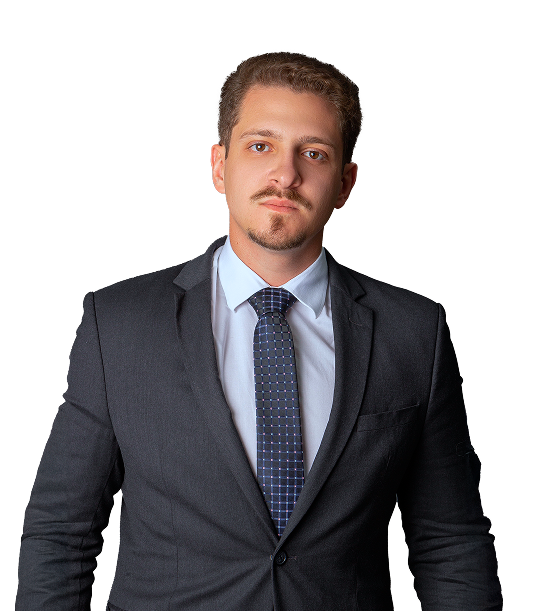
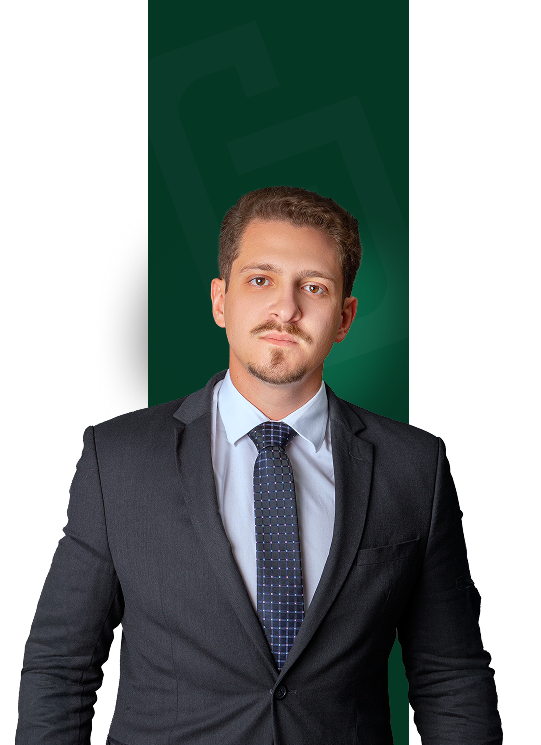
hero resolve responsive errors

diff --git a/src/components/sections/hero/hero.tsx b/src/components/sections/hero/hero.tsx
@@ -1,8 +1,8 @@
 import Link from "next/link";
-import { Container } from "../layout/container";
+import { Container } from "../../layout/container";
 import Image from "next/image";
 import { ArrowDown } from "lucide-react";
-import { TitleWithTag } from "../title-with-tag";
+import { TitleWithTag } from "../../title-with-tag";
 import * as motion from "motion/react-client";
 
 const container = {
@@ -36,7 +36,7 @@ const variants = {
 export function Hero() {
   return (
     <motion.div
-      className="relative pt-20 bg-brand-950 overflow-hidden"
+      className="relative pt-20 bg-brand-950 overflow-hidden h-[600px] md:h-[745px]"
       id="hero"
       variants={container}
       initial="hidden"
@@ -70,18 +70,22 @@ export function Hero() {
           <ArrowDown className="text-white" />
         </Link>
       </motion.div>
-      <Image
-        src="/hero/hero-mobile.png"
-        width={266}
-        height={315}
-        quality={100}
-        alt="Gabriel Cansação"
-        className="absolute bottom-0 w-full left-[30%] md:hidden"
-        priority
-      />
-
-      <Container className="flex relative flex-col md:grid grid-cols-8 lg:grid-cols-12 min-h-[580px] ">
-        <div className="flex flex-col gap-4 text-white md:flex-row col-span-4 pt-10 md:pt-20 lg:col-span-6 lg:pt-40">
+      <motion.figure
+        className="absolute bottom-0 left-[30%] md:hidden w-full"
+        variants={variants.opacity}
+      >
+        <Image
+          src="/hero/hero-mobile.png"
+          width={266}
+          height={315}
+          quality={100}
+          alt="Gabriel Cansação"
+          className="w-full"
+          priority
+        />
+      </motion.figure>
+      <Container className="relative h-full w-full">
+        <div className="flex flex-col gap-4 text-white md:flex-row pt-10 md:pt-20 lg:pt-40 absolute max-w-[430px] z-10">
           <div className="block md:hidden">
             <TitleWithTag
               orientation="vertical"
@@ -125,47 +129,35 @@ export function Hero() {
           </motion.div>
         </div>
         <motion.div
-          className="col-span-4 w-full hidden md:block relative lg:col-span-6 max-w-[400px]"
+          className="ml-auto w-full hidden md:block h-full"
           variants={variants.opacity}
         >
-          <figure className="absolute top-0 left-[20%] w-[400px] flex items-center justify-center">
-            <Image
-              src="/hero/hero-bg-center.png"
-              width={150}
-              height={400}
-              quality={100}
-              alt="Efeito visual de fundo"
-              role="presentation"
-              priority
-            />
-          </figure>
           <Image
             src="/hero/hero.png"
-            width={400}
-            height={400}
+            width={541}
+            height={759}
             quality={100}
             alt="Gabriel Cansação"
             priority
-            className="absolute bottom-0 left-[20%] z-[2]"
+            className="absolute bottom-0 right-0 z-[2]"
           />
-
           <Image
             src="/hero/hero-bg-left.png"
-            width={300}
-            height={400}
+            width={461}
+            height={588}
             quality={100}
             alt="Gabriel Cansação imagem opaca à esquerda"
             priority
-            className="absolute bottom-[0%] left-[-20%]"
+            className="absolute -bottom-8 right-80 opacity-50"
           />
           <Image
             src="/hero/hero-bg-right.png"
-            width={240}
-            height={400}
+            width={371}
+            height={690}
             quality={100}
             alt="Gabriel Cansação imagem opaca à direita"
             priority
-            className="absolute bottom-[-5%] left-[80%]"
+            className="absolute -bottom-8 -right-30"
           />
         </motion.div>
       </Container>

diff --git a/src/app/page.tsx b/src/app/page.tsx
@@ -3,7 +3,7 @@ import { Header } from "@/components/layout/header";
 import { About } from "@/components/sections/about";
 import { Presentation } from "@/components/sections/presentation/presentation";
 import { FAQ } from "@/components/sections/faq/faq";
-import { Hero } from "@/components/sections/hero";
+import { Hero } from "@/components/sections/hero/hero";
 import { Services } from "@/components/sections/services/services";
 import { Testimonials } from "@/components/sections/testimonials/testimonials";
 import { Work } from "@/components/sections/works/work";

diff --git a/src/components/layout/container.tsx b/src/components/layout/container.tsx
@@ -17,7 +17,7 @@ export function Container({
   return (
     <Component
       className={cn(
-        "w-full mx-auto container max-w-7xl px-6 md:px-10 lg:px-5 xl:px-0",
+        "w-full mx-auto container max-w-[1216px] px-6 md:px-10 lg:px-5 xl:px-0",
         className,
         grid ? "grid grid-cols-4 md:grid-cols-8 lg:grid-cols-12" : ""
       )}
